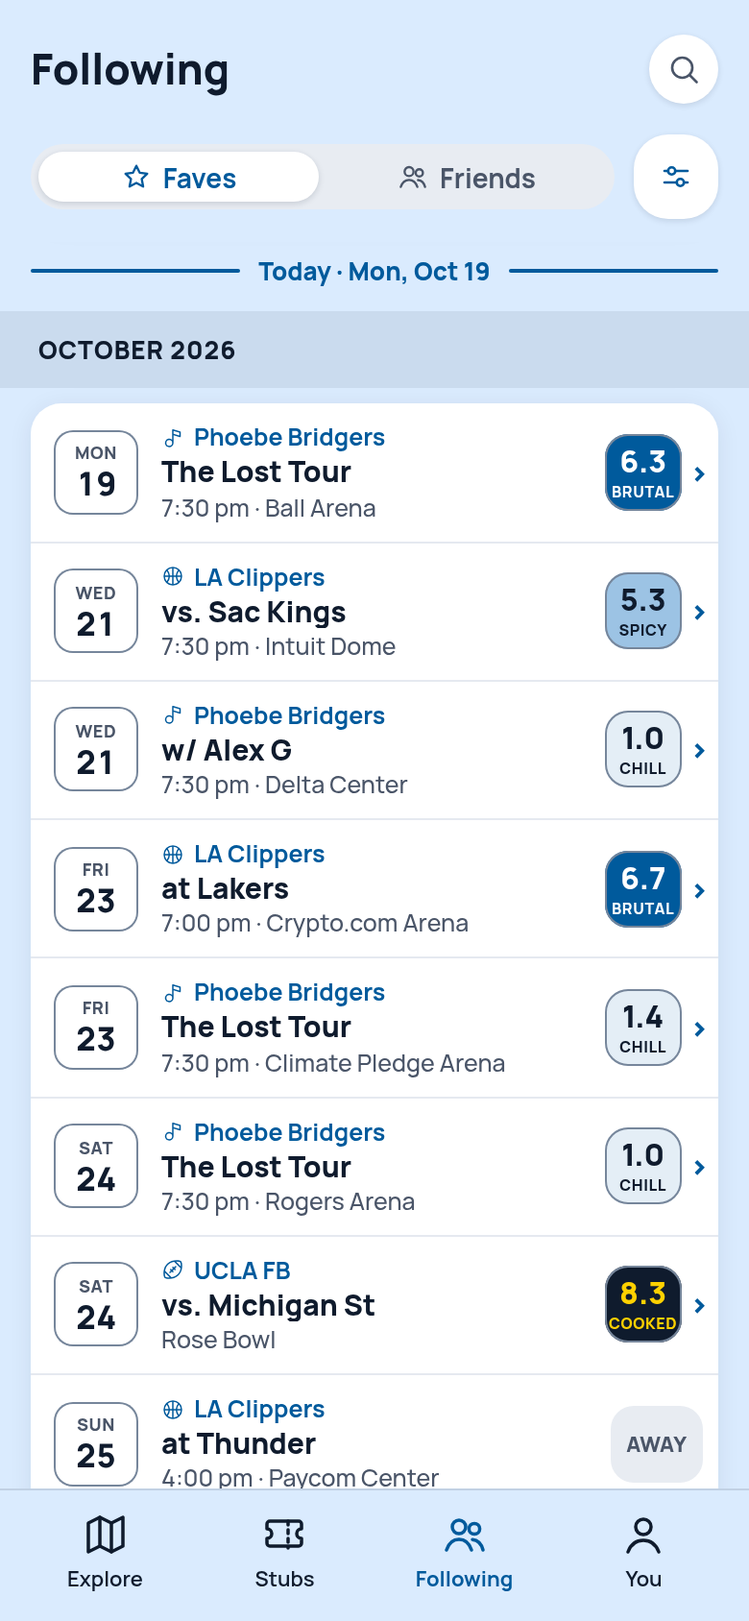
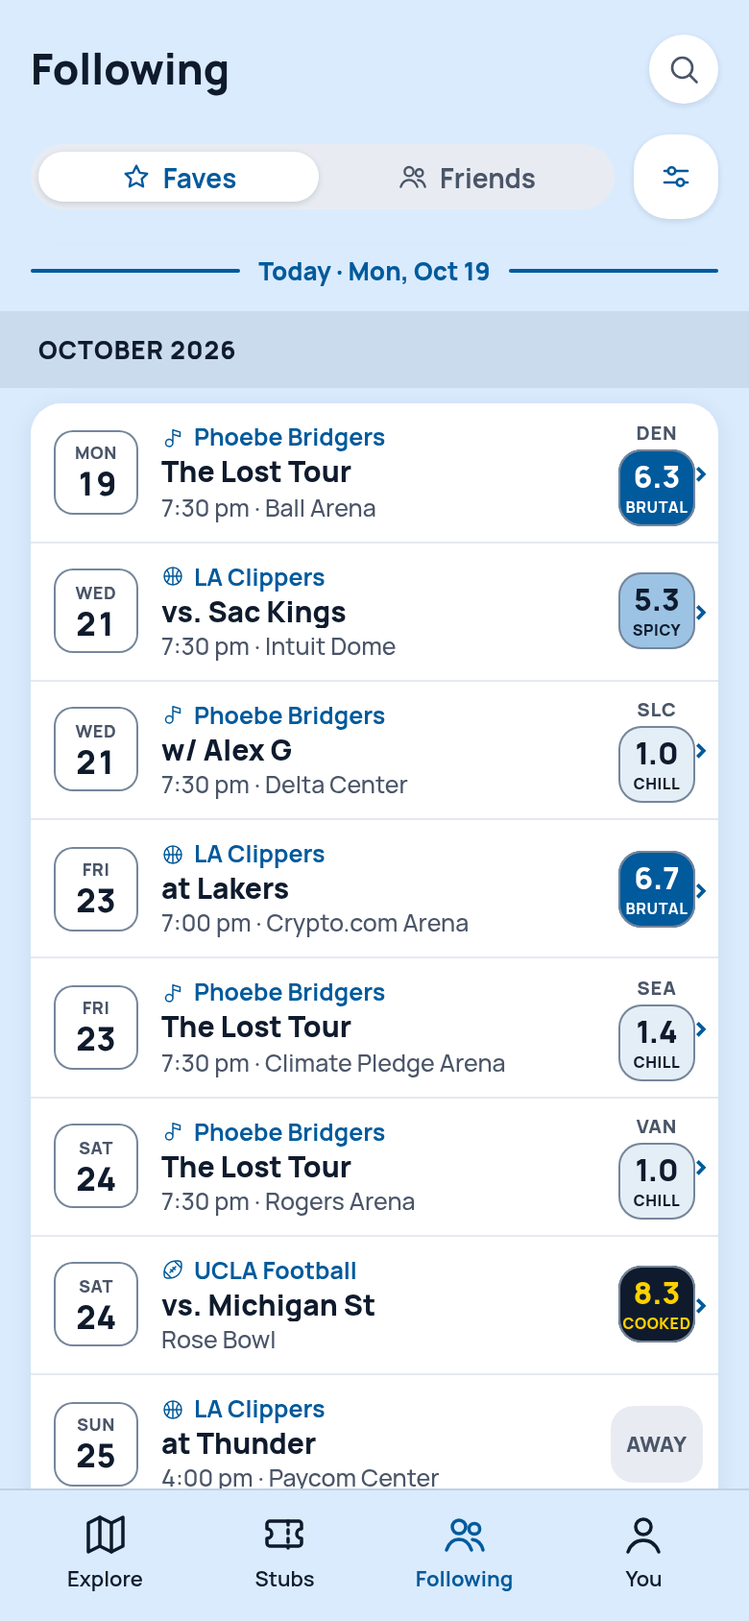
docs: two research prompts (team naming levels, artist genres), her corrections logged, screens refreshed, handoff and backlog synced

diff --git a/docs/product/product-decisions.md b/docs/product/product-decisions.md
@@ -271,4 +271,5 @@ Each entry: the decision, why, and what was rejected. Provenance per line: "Kyli
 - **Kylie's Oct 17 tweaks after the correction** (built the same evening; held on `main` unpushed at her word). **Faves goes backwards too:** the Faves sub-tab is the same line of time as Stubs and Friends, reaching 60 days each way (reversing the Oct 16 pick that past Faves games stay out); a team's past rows read its results the team page's way ("W 17–15 at Oregon"), other favorites show their past dates; "Nothing coming: X" still names the favorites with nothing ahead. The Faves row itself is not settled: a date tile should carry the day (the written date leaves the row) and the row needs a way to show which favorite it belongs to; two tries (three tiles; a team line) were not right, so other models are mocking it from `docs/research/topics/faves-row/faves-row-mockup-prompt.md`. **The crowd-size line** ("N events outside your crowd size · Show") stays in place after Show and reads Hide, so the view switches on and off without Settings, on the map sheet, the Explore List (per day), the date page and search; the sheet's count follows what is listed. **The map sheet scrolls** to every event (its day list was shrinking to the sheet's height and clipping the rest). **Day and event links always carry the city** they were opened from (a Los Angeles day had opened as the Bay Area home). **The badge's sport icon** is a small white disc astride the tile's top-left corner, the icon in the tile's blue, as the badge board draws it, not a glyph painted over the tile.
 - **The Faves row is option P5, "team line above the title" (Kylie, Oct 18, 2026, from the mockups other models drew to `docs/research/topics/faves-row/`).** Past and future rows are one component: a 44 × 44 date tile at the left; a text block of three lines, the team line (the sport icon and the code the badge strip uses, in action blue, 12.5 px bold; "UCLA MBB" only where programs collide, no W), the title (bold ink, one line, a past game writing its result in: "W 17–15 at Oregon"), and the venue and time in grey (a past row has no time); the read tile at the right, about 60 px, opening the date page, or a grey Away tag where the app does not cover the building. No badge on the row, no friction mark, no occasion tag; the person's own Attending stays on Stubs. Measured at 390 px: the title keeps 220 px and no sample title truncates; rows are 76 px, 96 px when a label line ("NLCS Game 2") sits under the title, which the labels rule puts on its own line. **Leans built, not confirmed by Kylie:** the team code is a link to the favorite's page (the same place the strip's badge opens), which is why it is blue; the 12.5 px code sits under the 11 pt minimum (the Friends row's last line already does) and needs her sign-off. **Why:** the row always says which Fave it belongs to without a third tile, at the cost of about 18 px per row. **Rejected:** three tiles (date, badge, read: busy, titles truncate at 164 px); a team line under the venue (try B); the written date on the row (the date tile carries it).
 - **The Following tab redesign (Kylie, Oct 19, 2026; seven mockups, "build to these"; built the same day, held locally until she says push).** One row for the Faves and Friends timelines: a 44 × 44 date tile; a blue 12.5 px lead line (a Fave's sport icon and display name, a link to its page; or the people icon and what friends answered, "Sam R. +2 attending", "Jo is interested"); the title from the Fave's side ("vs. Wisconsin", "at Michigan St", a past game's result first: "W 17–15 at Oregon"; a show's name without the artist, "Reunion Tour", the whole title when the rest is a support act); the time and venue in grey, venue alone on past rows; the read tile at the right, opening the date page, or a grey Away tag. No friction mark, occasion tag or own answer. **Team display names:** pros are a city shortcut plus nickname (LA, NY, SF, SD, SJ, KC, LV, STL, TB, NO; every other city spelled out; a club whose name does not end in its nickname keeps its full name); colleges are the school plus a sport code from her own list (FB, MBB/WBB, MIH/WIH, BSB, SB, MSOC/WSOC; MVB/WVB for volleyball, a builder's analogy she approved). **College badges are always lettered** (her answer the same day, replacing the Oct 17 "only on a clash"): the badge sits beside the name, which carries the code too, and reads the same alone; the Home strip, the picker, the team page header and search rows follow. **The header:** the badge strip under the segmented control is gone (reversing her Oct 17 keep-the-strip call), replaced by one 44 × 44 sliders button that is both the timeline's filter and the way to manage Faves and Friends; while a filter is on it turns solid with a count and a chip row shows what is picked ("UCLA FB ✕", scrolling, Clear pinned). **The sheet** ("Show and manage", a lean) opens from the button on the segment you came from, with a 28 px Faves | Friends switch (44 px hit area): Faves is an All row ("All 5 on timeline" / "3 of 5"), then the Faves by kind A–Z with a check each that filters at once (tapping one while All is on picks only that one; the last unchecked goes back to All), the badge in a fixed column; Edit adds an "Add a team, artist, venue or festival" row (the picker) and a one-tap "−" per Fave. Friends is Find people, Requests (Approve / Decline), Following (a check each; a sent request reads "Requested" with no check), Follows you (a Follow pill), the ⋯ menu Remove / Unfollow / Block behind one confirm, as the People list has had since Oct 9. "Also in Settings ›" at the foot opens that dropdown. **Empty states:** a filter that hides everything says "Nothing for X in the last or next 60 days. The filter hides everything else. Show all Faves ›" (both directions, since the line runs both ways); no Faves is "No Faves yet" with Add a Fave; no friends is "No friends yet" with Find people. Search is unchanged. **Builder's calls:** "vs." keeps its period (the app's convention; the boards drop it); the "+2" form on the people line as Explore rows use; the "Nothing coming: X" line is dropped (the sheet's All row says what is on the line); filters are kept for the session on this device so a row tap and Back keep them; a friend's line carries no start time, so Friends rows say the venue alone. **Why (Kylie):** one control for filter and management, the row says why it is there, and the strip's job moved into the sheet. **Rejected:** three tiles on the row; the badge strip; the team line under the venue.
+- **Her corrections to the redesign (Kylie, Oct 19, 2026, after the screenshots).** A college program is written with its sport in words everywhere there is room, never a code: the row's lead line and the chips say "UCLA Football", "UCLA Men's Basketball" (the long name), as do the picker, search rows, Home's Favorites strip and the team page header. **No sport on any college badge:** the badge is the school's code alone ("UCLA", "GT"), which reverses the morning's "always lettered"; the words beside the badge carry the sport. The Show and manage sheet's Faves rows have no badge at all (her lean, "I don't think we do"); the Friends rows keep their initial. The city code over the read tile on a date away from home ("MSP", "BAY") is back on both timelines; it had been lost in the redesign. **Two prompts for research, at her request:** `docs/research/topics/team-naming-levels-prompt.md` (how a team is named at each level of the app, the fields the records lack, long school names, mascots, collisions) and `docs/research/topics/artist-genres-prompt.md` (a genre taxonomy and an artist record, the information work concerts still lack).
 - **Three refinements (Kylie, Oct 19, 2026).** A college title on a Faves row names the school alone ("Lehigh at UCLA"), since the team line above it already says "UCLA WBB"; Explore and date rows keep their squad tags. The read tile loses the hairline that separated it from the row's words; its tap area is unchanged (the tile and its "›" read as the target). **Stubs rows take the same two taps:** the row opens the event (or the hand-added entry), the read tile opens that date's page; a stub with a rough date has no day page, so its tile stays plain.

diff --git a/MEMORY_HANDOFF.md b/MEMORY_HANDOFF.md
@@ -2,7 +2,7 @@
 
 Overwritten each session. Deferred work and history live in `BACKLOG.md`: open questions are at its top (the K-list), build follow-ups under **Next** ("Build 6 follow-ups" is newest, then "Past dates", then "Build 5 follow-ups"). Product rules live in `AGENTS.md` (CLAUDE.md points at it), `docs/product/direction.md` and `docs/product/product-decisions.md` (newest sections at the bottom; build 6's decisions are the last section). Build 6's notes are `docs/build-6/build-notes-6.md`; its frozen scope is `docs/build-6/scope-frozen.md`.
 
-_Last synced: Oct 19, 2026 (later), Claude Code (Fable 5.1), at `main`'s head. **The Following redesign (three commits after `af332103`) is local and NOT pushed**; push when Kylie says. Her standing word since Oct 17: small tweaks are committed locally and pushed when she says._ Kylie's standing instruction: one commit per step, straight to `main` (Kylie, Oct 9; reaffirmed for build 6)._
+_Last synced: Oct 19, 2026 (later), Claude Code (Fable 5.1), at `main`'s head. **The Following redesign (five commits after `af332103`) is local and NOT pushed**; push when Kylie says. Her standing word since Oct 17: small tweaks are committed locally and pushed when she says._ Kylie's standing instruction: one commit per step, straight to `main` (Kylie, Oct 9; reaffirmed for build 6)._
 
 ## Current state
 **Build 6 is built, checked and pushed** (items 1–16 of `docs/build-6/build-notes-6.md`, one item per commit, from `75816216` to the head). `npm run build`, `scripts/titles-check.mjs` and `scripts/event-types-check.mjs` pass; every changed list was measured at 390 px with Playwright; every changed screen was smoke-tested for runtime errors. In short:
@@ -10,7 +10,7 @@ _Last synced: Oct 19, 2026 (later), Claude Code (Fable 5.1), at `main`'s head. *
 - Stubs and Following's Friends segment are timelines (`src/components/Timeline.tsx`): the tab header stays at the top, the today line opens first (board M2-01 panel C: a thin blue rule with the date centred on it, month bands on both sides), the past is above by scrolling up (Kylie, Oct 17, correcting the first build). Following keeps Faves | Friends; only the edit-favorites picker is in Settings.
 - **The mockup pack is audited (Oct 17, later):** `docs/build-6/mockups/` (30 boards plus MANIFEST) and the Oct 17 notes (Q15, Q16) are on disk; `docs/build-6/audit-vs-mockups.md` records every item against its boards, the fixes (`9ed4b4ff` item 1: ring geometry per M5-04, Unopposed a full disc, per-level spoken sentences, the key's helper tip per M5-08; `caafc5ea` items 6 and 7: the today line, bands both sides, empty-past above, no Earlier, the button's shrink) and the screens after (`docs/build-6/screens-after/`). Items with no board: chip card, Friends timeline, Settings panel, the decided badge, the event header without the pill, the share card. **Her answers, built the same day** (`b7e21048`, `cb4969bd`, `e58add49`): Faves takes month bands with the day on each row; the empty future is M2-02's card; a list with no past opens at its top; the map key fits under the header; the timelines no longer overflow the page's width or squash the chips. Open for Mosaic: the helper tip broken into sections.
 - **Her evening tweaks (local, unpushed):** Faves is the same timeline as Stubs and Friends, 60 days each way, results on past team rows; the crowd-size line toggles Show / Hide in place on the map sheet, the Explore List, the date page and search; the map sheet scrolls to every event; day and event links always carry the city; the badge's sport icon is a white disc astride the tile's top-left corner. **The Faves row is her option P5 (Oct 18):** date tile, a team line (icon and code, blue, a link to the favorite's page), the title with results written in, venue and time; the badge's corner disc centres its icon. Her sign-off is still wanted on the code being a link and on its 12.5 px size. **Oct 19:** college titles on Faves rows say the school alone; the read tile's separator is gone; Stubs rows' read tiles open the date's page (the row still opens the event).
-- **The Following tab redesign (Kylie, Oct 19, seven mockups; `docs/product/product-decisions.md` has the full entry):** `FollowRow` is the one row both timelines use; `FollowingSheet` ("Show and manage") opens from a 44 × 44 sliders button beside the segmented control and is both the filter (checks, a chip row, a count on the button) and the place to add and remove Faves and to manage friends; the badge strip is gone; `FavoritesScreen` is only the picker now; `teamDisplayName` / `teamLongName` / `favoriteDisplayName` / `favoriteLongName` are the display-name rule (city shortcuts, college school + code); college badges are always lettered; the sport codes are her list (MIH/WIH, MSOC/WSOC, MVB/WVB). Screens: `docs/build-6/screens-after/following-redesign/` (labelled per mockup number). **Phone checks (headless cannot sign in):** the Friends timeline and the sheet's Friends side with real people; the ⋯ menu inside the scrolling sheet.
+- **The Following tab redesign (Kylie, Oct 19, seven mockups; `docs/product/product-decisions.md` has the full entry):** `FollowRow` is the one row both timelines use; `FollowingSheet` ("Show and manage") opens from a 44 × 44 sliders button beside the segmented control and is both the filter (checks, a chip row, a count on the button) and the place to add and remove Faves and to manage friends; the badge strip is gone; `FavoritesScreen` is only the picker now; `teamDisplayName` / `teamLongName` / `favoriteDisplayName` / `favoriteLongName` are the display-name rule (city shortcuts, college school + code); college badges are the plain school code (her correction later that day; the sport is spelled out in the words beside the badge, "UCLA Football"); the sheet's Faves rows carry no badge; the city code over away read tiles is back. Two research prompts wait for her to run: `docs/research/topics/team-naming-levels-prompt.md` and `artist-genres-prompt.md`. **Open with Kylie:** the picker's suggestion list (every home-city team, artist and venue; Oct 9 C076) is longer than she wants; nothing changed until she answers. Screens: `docs/build-6/screens-after/following-redesign/` (labelled per mockup number). **Phone checks (headless cannot sign in):** the Friends timeline and the sheet's Friends side with real people; the ⋯ menu inside the scrolling sheet.
 - Settings is a side panel behind the You avatar (`SettingsPanel` in `src/screens/SettingsScreen.tsx`, `?panel=<section>`); the old sub-page and People addresses redirect into it.
 - Team badges are set-aware (`teamBadge(team, shown)`, `badgesCollide`, `FavoriteBadge`): sport icon top-left, college sport letters on a clash, pros plain. 53 team codes changed (Kylie's six plus 47 Medium rows). The duplicate check keys games by team id.
 - Doubleheaders read "Doubleheader Game 1" / "Doubleheader, Game 1" (chip DH1); a `rank` field shows in the event page title only when a source fills it (none does). Run labels: nothing. "The night" story heading is "The evening". Ticket links are off (code and ids kept). B5-02, B5-04, B5-05, B5-07 fixed. Stale docs corrected; `src/lib/chips.ts` and `frictionClass` removed.

diff --git a/docs/research/topics/team-naming-levels-prompt.md b/docs/research/topics/team-naming-levels-prompt.md
@@ -1,0 +1,38 @@
+# Research prompt: how a team is named at each level of the app
+
+Written Oct 19, 2026 for a research model. Save the answer beside this file as `team-naming-levels-answer.md`. Kylie decides; nothing here is a decision.
+
+## What Fan/Friction is
+A personal log of live events (sports and concerts) with a friction read on each night, built city by city (Los Angeles first, about 40 metros listed, Canada and Mexico included). Every team is one record: a full name, a short name, a scoreboard code, a league and a sport. College programs are one record per sport (UCLA football, UCLA men's basketball, UCLA women's basketball), the way ESPN lists them. About 580 teams are on file today across pro leagues (MLB, NBA, WNBA, NFL, NHL, PWHL, MLS, NWSL, Liga MX, minor and indoor leagues) and college programs (NCAA, U Sports).
+
+## The problem
+The app writes a team's name in six places with six amounts of room, and the stored fields do not map cleanly onto them. Pro teams are "city + nickname" (Los Angeles Dodgers) and the sport is in the league. College teams are "school + mascot" (UCLA Bruins) and the sport is NOT in the name, so "UCLA Bruins" alone is ambiguous between six programs. Kylie's instinct: the badge says only the school ("UCLA"), and the words beside it carry the sport ("UCLA Football", "UCLA Men's Basketball"). USC and UCLA are easy because the school name is already an abbreviation; she wants to know how this holds for longer names (Georgia Tech, Kennesaw State, San José State, Marquette, Villanova, Boston College, Université de Montréal).
+
+## The six places (today's rule in each)
+1. **The badge**: a blue tile, 44 px wide at least, 11 px bold capitals, one line. Today the scoreboard code: "LAD", "UCLA", "GT", "MARQ". A pro team that shares a code and sport with another in the same list carries its league under the tile ("NBA" / "WNBA" for the Pacers and the Fever).
+2. **The map chip**: a 112 × 44 box over the venue, the home team's short name, "Dodgers", "UCLA", with a squad tag only when two chips that night would otherwise match.
+3. **A row's lead line** (the Following tab): 12.5 px, about 220 px of room, blue. Today "LA Dodgers", "UCLA Football".
+4. **A row's title**: "Brewers at Dodgers", "Wisconsin at UCLA", with a squad tag on college games in Explore ("Arizona vs. UCLA (MBB)") but not on Following rows, where the lead line already says the program.
+5. **A list row with the badge beside it** (the picker, search, the Following sheet): the full written name, about 200 px. Today "LA Dodgers", "UCLA Football".
+6. **The team's own page header**: the biggest, "Los Angeles Dodgers", and for colleges today "UCLA Football".
+
+Plus the spoken name for screen readers, which must be unambiguous: "UCLA Bruins men's basketball".
+
+## What to work out
+1. **A naming table with one row per level** and, for each, the rule for pro teams, for college teams, and for clubs whose name does not fit "city + nickname" (Angel City FC, Inter Miami CF, Real Salt Lake, Pumas UNAM, Diablos Rojos del México). Say which stored fields each level needs. If a level needs a field the records lack (a display city, a mascot separate from the school, a sport in words, a "common name" like "Cal" for California), name the field and say how it would be filled for 580 teams without hand work where possible.
+2. **City shortcuts for pros.** Kylie's list: LA, NY, SF, SD, SJ, KC, LV, STL, TB, NO; keep New England, San Antonio, Salt Lake City, Golden State and every other city spelled out. Check it against what fans and league sites actually write, flag any that read wrong ("NO Saints", "TB Rays"), and say what to do with two-city or region names (Minnesota, Golden State, Carolina, Vegas) and non-US cities (Montréal, Ciudad de México).
+3. **Colleges.** The school part: when is the common short form right ("UCLA", "Cal", "Georgia Tech", "Ole Miss") and when must it be longer? Does the mascot ever belong in the app (fans say "Bruins", "Trojans"), and at which level? The sport part: "Football", "Men's Basketball", "Women's Basketball", "Men's Ice Hockey", "Softball", "Baseball", "Men's Soccer", "Women's Volleyball"; say whether "Men's" should be dropped when the school has no women's program in that sport (most football), and what the NCAA, the schools' own sites and ESPN write. Kylie does not like the NCAA's letter codes on screen (FB, MBB, WBB) and wants words wherever there is room.
+4. **The squad tag on a row title** ("(MBB)"): keep it where the lead line is absent (Explore, date page, chips when two match), drop it where the lead line says the program? Say what else could carry it.
+5. **Collisions**: two programs of one school in one sport (men's and women's basketball), two schools sharing a code (Houston and the Rockets both HOU; Cleveland State and the Cavaliers both CLE), two clubs of one city in one sport (Pacers and Fever). Say per level how each is told apart with the fewest marks.
+6. **Edge cases to check by name**: Texas (Longhorns, also the Rangers' state), Miami (Hurricanes, Heat, Dolphins), Washington (Huskies, Commanders, Wizards, Nationals, Capitals, Mystics, Spirit), Minnesota (five pro teams and the Gophers), the Toronto Varsity Blues and York Lions (U Sports), Marquette and Villanova (no city in the name), Sacramento City College, and the Mexican clubs.
+
+## House rules the answer must respect
+- Women's teams are never marked when men's teams are not (no "W" alone; "Men's" and "Women's" both written or both dropped).
+- 11 pt minimum text; 44 pt tap targets; Letterboxd density; say less rather than more.
+- Every rule must work for any city, not just Los Angeles: phrase rules in terms of fields and leagues, and give examples from at least three countries' leagues.
+- Mark every example "EXAMPLE" where the data is invented; team names may be real.
+
+## What to hand back
+- The naming table (levels × team kinds), with a worked example for the Dodgers, the Pacers and the Fever, UCLA's three big programs, Georgia Tech football, Marquette women's basketball, Angel City FC and Pumas UNAM.
+- The list of fields to add to the team record, with a source for each.
+- A short list of the cases the table cannot settle, for Kylie.

diff --git a/BACKLOG.md b/BACKLOG.md
@@ -77,6 +77,7 @@ Items 1–16 are built and on `main`; the report is `docs/build-6/build-6-report
 - ~~To confirm: letters only on a clash~~ **Confirmed (Kylie, Oct 17):** college sport letters only on a clash, same code and same sport. The wider college badge ("UCLA MBB", about 74–79 px) lets the tile grow; Mosaic's width call is still welcome.
 - **Leans and defaults she may change (one place each):** the Why card and Favorite page rows (Q14); ~~the Faves strip and day rows living in the Settings panel (Q12)~~ reverted Oct 17 (Kylie: the Faves segment stays on the tab; only the edit picker is in Settings); the Time TBA band alone (Q13); "The evening" (Q11); the Stubs empty copy rendered as "No stubbed events" (the notes write it lowercase); ~~the today band's look~~ aligned Oct 17 with board M2-01 panel C (a thin blue rule; `docs/build-6/audit-vs-mockups.md`); the empty-future side as a one-line note (board M2-02 draws a card with "Browse today in Explore ›"); the stub's level shown on every row only when signed in; the Settings dropdown order; the Following row's last line (the people on it, else a star and the Fave); Following's 60-day window (the past, and the Faves horizon; followed people's plans ahead are not capped); the map key's helper tip in board M5-08's draft A shape (three lines; draft C is shorter); the ring's stroke (1.3 at 12 px, a touch under M5-04's 1.5 per her M5-06 note).
 - **Games a league drops after their day (Kylie, Oct 19: NLCS Game 5 never happened).** The live feeds were already right (MLB removes an unneeded "if necessary" game; the sources drop postponed and cancelled statuses); the hole was the shared catalog, which only cleared stale rows from the pass day on, so a game dropped after its morning pass sat on a past date for good (and the Oct 16 pass that would have caught this one had failed). Fixed: the game feeds are read and cleaned a week back. Still open: a plan or stub on such a game keeps its title (nothing tells the person the game was called off); a listing the sellers cancel after its day (Ticketmaster drops past listings, so a cancelled show that already passed cannot be told from a played one) stays.
+- **Research prompts waiting on Kylie (Oct 19):** `docs/research/topics/team-naming-levels-prompt.md` (team names at every level; the fields the records lack) and `docs/research/topics/artist-genres-prompt.md` (artist genres and records; "Artist" under a name is a placeholder until then). **Her question on the picker:** the list of home-city suggestions is long; see the Oct 19 message for the options.
 - **Following redesign follow-ups (Kylie, Oct 19; built the same day):** the sheet's "Find people" row opens the People panel's search in Settings (the only find-people UI the app has) rather than searching inside the sheet; a filter that names a Fave or friend no longer followed drops them quietly; the search sheet's event rows under "ucla" still write the long stored team name in their facts ("UCLA MBB · UCLA Bruins men's basketball"), untouched by this round. Leans she may change: the sheet title "Show and manage", "All N on timeline" wording, filters kept per session, the 12.5 px lead line.
 - ~~The Faves row: waiting on mockups~~ **Built Oct 18 as Kylie's option P5** (team line above the title; `docs/research/topics/faves-row/` holds the prompt and the tries). **Her sign-off still wanted on two leans:** the team code as a link to the favorite's page (blue because it taps), and the 12.5 px code under the 11 pt minimum. Also from her: the helper tip's information broken into sections (Mosaic).
 - **After the mockup audit (Oct 17):** ~~Faves month bands~~ built (Kylie: yes). **For Mosaic:** the map key's helper tip (Kylie, Oct 17: "lots of information, might want to break down in sections"; it keeps M5-08 draft A's words until a board says otherwise); boards still wanted for the chip card, the Friends timeline, the Settings panel, the decided badge (and the lettered tile's width), the event header without the pill, and the share card.

diff --git a/docs/research/topics/artist-genres-prompt.md b/docs/research/topics/artist-genres-prompt.md
@@ -1,0 +1,24 @@
+# Research prompt: genres for artists, the way sports have leagues
+
+Written Oct 19, 2026 for a research model; a first draft, Kylie may rewrite it. Save the answer beside this file as `artist-genres-answer.md`. Nothing here is a decision.
+
+## What Fan/Friction is
+A personal log of live events with a friction read on each night. Sports teams are well structured on file: a sport, a league, a city, codes. Artists are not: a favorite artist is a name, and the app's lists call it "Artist" where a team's row says "Basketball · NBA". Kylie wants the same depth of information work for concerts that was done for sports.
+
+## What to work out
+1. **A genre taxonomy that fits a phone row**: one or two words under an artist's name ("Indie rock", "Country", "Hip-hop", "Latin", "EDM", "Classical", "Comedy" for touring comedians, "Theater" for touring shows). How many top-level genres, what the second level is, and which public sources assign them (Ticketmaster's segment / genre / subGenre, SeatGeek's taxonomy, MusicBrainz tags, Wikipedia infoboxes, Spotify's genres if public without a key). Say what each source covers and how they disagree.
+2. **What an artist record should hold**: a canonical name, aliases ("The Weeknd" / "Weeknd"), a genre and subgenre, a home city if any, a type (band, solo, DJ, orchestra, comedian, touring production), and ids on the sellers' feeds (Ticketmaster attraction id, SeatGeek performer id) so a listing matches the favorite by id rather than by name.
+3. **How a show's name is split**: the headliner, the tour name ("The Lost Tour"), the support ("w/ Alex G"), a festival or residency. The app shows the tour name under the artist's name on a Faves row when the seller wrote one; say how reliably sellers write it and what the fallback should be.
+4. **Who is "big enough" to list**: the app lists events of about 1,000 and up and the friction read counts 5,000 and up. Say whether genre helps estimate a draw when no count exists, and what the overlap rule between two concerts the same night should use (the app's formula rates "audience overlap" between events; concerts of the same genre or era are Medium, different genres Low).
+5. **Coverage**: pop, rock, hip-hop, Latin (regional Mexican is large in Los Angeles), country, K-pop, electronic, jazz, classical, comedy, touring theater, family shows. Say which the public sources cover thinly.
+
+## House rules
+- Public data only; name every source and its terms. 🚩 Flag anything that would cost money or need a key.
+- Rules must work for every city, not only Los Angeles; give examples from at least three countries.
+- Say less on screen: one or two words per artist.
+
+## What to hand back
+- The taxonomy (two levels), with the source that fills it and a coverage estimate.
+- The artist record's fields, with a source per field.
+- A worked example for ten artists across genres, three of them touring Los Angeles this fall, and two comedians.
+- The open questions for Kylie.
